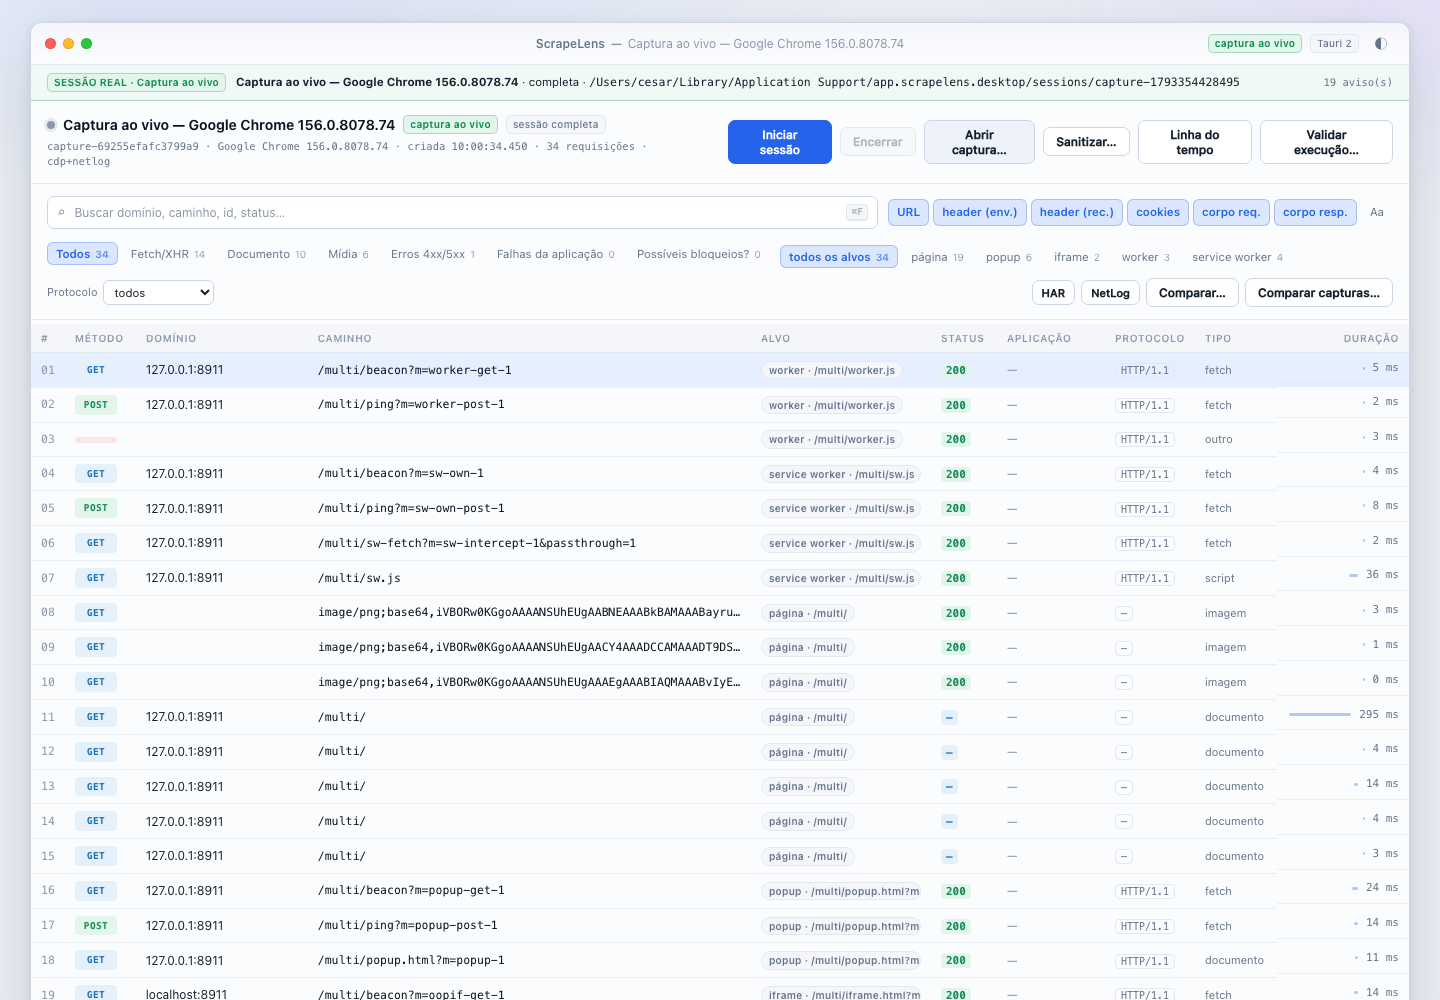
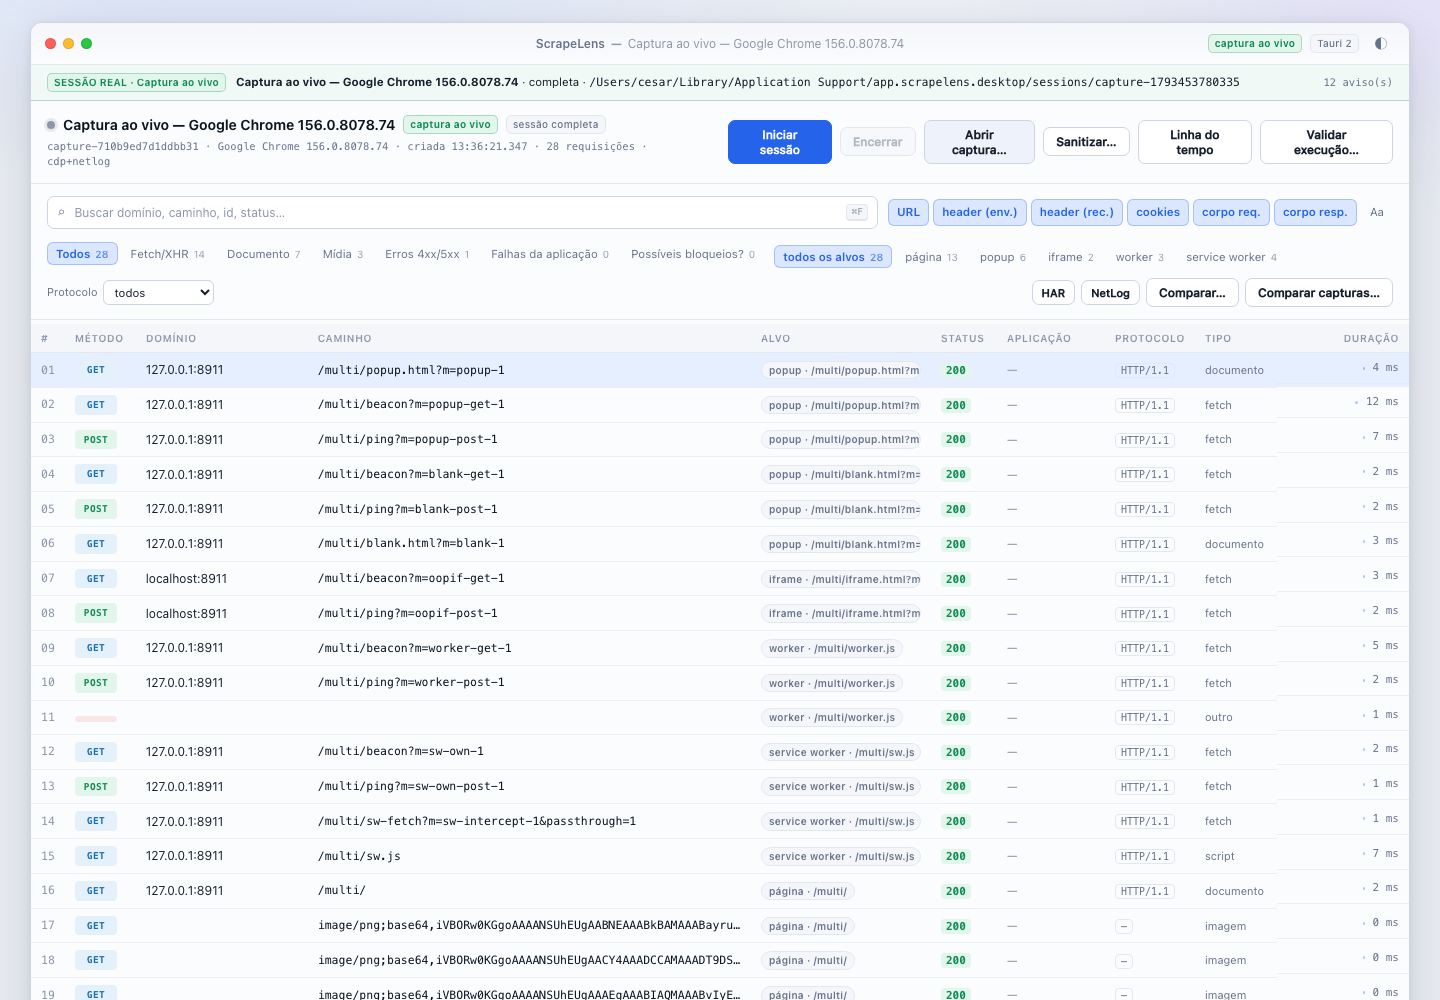
build(app): definitive bundle at HEAD 06c4269 (notes and setup_error)
Shows target.notes in the target panel and cdp.target_setup_error/timeout in Limits; /multi/ capture with “not confirmed” and screenshot 44.

diff --git a/app/src/App.tsx b/app/src/App.tsx
@@ -46,6 +46,7 @@ import {
   targetBadge,
   targetFilterCount,
   targetKindLabel,
+  targetSetupWarnings,
   type TargetFilter,
 } from "./target";
 
@@ -528,6 +529,8 @@ function CaptureLimits({
   const targets = showTargets ? captureTargets(requests) : [];
   const attachFails = attachFailureWarnings(session.warnings);
   const uniqueFails = [...new Map(attachFails.map((w) => [w.message, w])).values()];
+  const setupWarns = targetSetupWarnings(session.warnings);
+  const uniqueSetup = [...new Map(setupWarns.map((w) => [w.message, w])).values()];
   return (
     <ul>
       <li>Headers sem evento correspondente aparecem como “não verificada”, nunca como fato.</li>
@@ -560,6 +563,18 @@ function CaptureLimits({
           Falhas ao anexar alvo ({uniqueFails.length}):
           <ul className="limits-targets">
             {uniqueFails.map((w) => (
+              <li key={w.message}>
+                <span className="chip v-partial">{w.code}</span> {w.message}
+              </li>
+            ))}
+          </ul>
+        </li>
+      )}
+      {uniqueSetup.length > 0 && (
+        <li>
+          Avisos de configuração de alvo ({uniqueSetup.length}):
+          <ul className="limits-targets">
+            {uniqueSetup.map((w) => (
               <li key={w.message}>
                 <span className="chip v-partial">{w.code}</span> {w.message}
               </li>
@@ -849,6 +864,18 @@ function DetailView({
                     ? "não (fica só com o NetLog)"
                     : "não informado"}
               </dd>
+              {req.target.notes.length > 0 && (
+                <>
+                  <dt>Notas</dt>
+                  <dd>
+                    <ul className="target-notes">
+                      {req.target.notes.map((note) => (
+                        <li key={note}>{note}</li>
+                      ))}
+                    </ul>
+                  </dd>
+                </>
+              )}
             </dl>
           )}
           {req.links.length > 0 && (

diff --git a/app/src/target.ts b/app/src/target.ts
@@ -41,7 +41,11 @@ export function sessionShowsTargets(
   requests: RequestRecord[],
   warnings: { code: string }[],
 ): boolean {
-  if (warnings.some((w) => /target_attach|target_unknown|service_worker/.test(w.code))) {
+  if (
+    warnings.some((w) =>
+      /target_attach|target_unknown|target_setup|service_worker/.test(w.code),
+    )
+  ) {
     return true;
   }
   return requests.some((r) => r.target || r.netlogOnlyUnknownTarget || r.links.length > 0);
@@ -153,6 +157,15 @@ export function attachFailureWarnings(
       w.code === "cdp.target_attach_failed" ||
       w.code === "capture.target_attach" ||
       w.code.includes("target_attach"),
+  );
+}
+
+/** Timeout e erro de configuração CDP do alvo — mesmo bloco em Limites. */
+export function targetSetupWarnings(
+  warnings: { code: string; message: string }[],
+): { code: string; message: string }[] {
+  return warnings.filter(
+    (w) => w.code === "cdp.target_setup_timeout" || w.code === "cdp.target_setup_error",
   );
 }
 

diff --git a/app/src/v1/adapter.ts b/app/src/v1/adapter.ts
@@ -47,6 +47,7 @@ function mapTarget(raw: TargetProvenance | undefined): TargetView | undefined {
   const kind = TARGET_KINDS.has((raw.kind ?? "other") as TargetKind)
     ? ((raw.kind ?? "other") as TargetKind)
     : "other";
+  const notes = raw.notes ?? [];
   // Proveniência vazia (serde default) não vira coluna confusa.
   if (
     !raw.targetId &&
@@ -54,7 +55,8 @@ function mapTarget(raw: TargetProvenance | undefined): TargetView | undefined {
     !raw.url &&
     !raw.openerId &&
     !raw.parentSessionId &&
-    raw.attached === undefined
+    raw.attached === undefined &&
+    notes.length === 0
   ) {
     return undefined;
   }
@@ -65,6 +67,7 @@ function mapTarget(raw: TargetProvenance | undefined): TargetView | undefined {
     openerId: raw.openerId,
     parentSessionId: raw.parentSessionId,
     attached: raw.attached,
+    notes,
   };
 }
 

diff --git a/app/src/styles.css b/app/src/styles.css
@@ -510,6 +510,12 @@ kbd {
 .target-panel h3 { margin: 0 0 8px; font-size: 12px; color: var(--fg-strong); }
 .target-panel h4 { margin: 10px 0 4px; font-size: 11px; color: var(--fg-strong); }
 .target-kv { margin: 0; }
+.target-notes {
+  margin: 0;
+  padding-left: 1.1em;
+  list-style: disc;
+}
+.target-notes li { margin: 0.15em 0; }
 .target-links .link-list {
   margin: 6px 0 0;
   padding: 0;

diff --git a/app/src/types.ts b/app/src/types.ts
@@ -136,6 +136,8 @@ export interface TargetView {
   openerId?: string;
   parentSessionId?: string;
   attached?: boolean;
+  /** Notas informativas do core (ex.: "alvo encerrado durante a configuração"). */
+  notes: string[];
 }
 
 /** Observação irmã (service worker): `linked` ou `ambiguous`. */

diff --git a/app/src/v1/types.ts b/app/src/v1/types.ts
@@ -194,6 +194,8 @@ export interface TargetProvenance {
   openerId?: string;
   parentSessionId?: string;
   attached?: boolean;
+  /** Notas informativas (ex.: alvo encerrado durante a configuração). */
+  notes?: string[];
 }
 
 export interface RequestLink {

diff --git a/src-tauri/EMPACOTAMENTO.md b/src-tauri/EMPACOTAMENTO.md
@@ -9,12 +9,12 @@ mesmas condições.
 | Item | Valor |
 |---|---|
 | Repositório | `/Users/cesar/Projects/scrapelens` |
-| Commit do app no momento do build | `8cfe828` (HEAD de origem; `fix(capture): primeira sessão primária sem drop CDP no timeout`) |
+| Commit do app no momento do build | `66e97e3` (HEAD de origem; `feat(core): importa Capture.targetSetupError/Aborted e campos novos do timeout`) + UI `notes`/`cdp.target_setup_error` neste commit |
 | Commits de exportação incluídos | `eaf5471` (shell Tauri), `0a6e696` (UI), `0446f18`/`12457cd` (formatação), `3a3c676` (ajuste da prévia) |
 | Contrato da rodada | `4c97bc9` (`docs/07-exportacao-ui.md`); multi-alvo `docs/14-captura-multi-alvo.md` + UI `9a06463` |
-| Core | path `scrapelens-core`; inclui `df421cf`/`7892303` (alvo sem sessionId, `cdp.target_setup_timeout`, link SW ambíguo) |
-| Data do build | 2026-10-30 ~06:38 (UTC−03) |
-| Working tree | limpo no build em `8cfe828`; prints 42/44/45/47 atualizados após captura ao vivo |
+| Core | path `scrapelens-core`; inclui `715cdea`/`66e97e3` (SW “não confirmada”, `target.notes`, `cdp.target_setup_error`) |
+| Data do build | 2026-10-31 ~10:35 (UTC−03) |
+| Working tree | base `66e97e3` + painel de notas do alvo e avisos de setup em Limites; print 44 refeito |
 
 Não há sidecar, processo auxiliar nem runtime Node/Python no produto.
 
@@ -26,7 +26,7 @@ cd app && npm install                     # uma vez
 cd ../app && npx tsc --noEmit             # typecheck do frontend — sem saída
 cd ../app && npm run build                # bundle Vite — 516 kB (gzip 102 kB)
 cd ../core && cargo test                  # 55 passam, 1 ignorado
-cd ../src-tauri && cargo test             # 49 passam, 8 ignorados; 0 falhas
+cd ../src-tauri && cargo test             # 52 passam, 8 ignorados; 0 falhas
 cd ../src-tauri && cargo clippy --all-targets
 cd .. && ./app/node_modules/.bin/tauri build --bundles app
 
@@ -46,15 +46,15 @@ Ferramentas usadas: rustc 1.98.1, Node 26.8.1, macOS 26.5.2 (arm64).
 | Bundle | `src-tauri/target/release/bundle/macos/ScrapeLens.app` |
 | Executável | `ScrapeLens.app/Contents/MacOS/scrapelens` |
 | Arquitetura | `Mach-O 64-bit executable arm64`, thin (sem universal binary) |
-| Tamanho do bundle | 16.856 KiB (~16,5 MiB, `du -sk`) |
-| Tamanho do executável | 16.502.896 bytes |
[1 lines of base64/hex data omitted]
+| Tamanho do bundle | 16.932 KiB (~16,5 MiB, `du -sk`) |
+| Tamanho do executável | 16.582.144 bytes |
[1 lines of base64/hex data omitted]
 | Identificador | `app.scrapelens.desktop` |
 | Assinatura | ad-hoc (`flags=0x2(adhoc)`, `TeamIdentifier=not set`) |
 | `codesign --verify --deep --strict` | exit 0 (valid on disk, satisfaz o Designated Requirement) |
 | `spctl -a` | rejeitado — esperado: sem Developer ID e sem notarização |
 
-Rodada 10 final (HEAD de origem 8cfe828, 2026-10-30; Captura 1716d39–8cfe828 + Core df421cf/7892303; SW sem cópias na lista, sw-intercept ligado como ambígua, Limites sem “não anexou” falso; sessão antiga sem sessionId sem coluna Alvo; prints 42/44/47; hash anterior `77cf7355…`). Antes: rodada 10 (HEAD de origem 881fa0d, 2026-10-30; bundle com captura multi-alvo d60c1ae+, UI Alvo `9a06463`, aceite das Testes; captura ao vivo `/multi/` pelo `.app` com coluna Alvo e filtro de alvos; evidência `evidence/busca-corpos/46-multi-alvo-bundle.png`; hash anterior `d1136cbb…`). Antes: rodada 9, onda B, 3ª vez (HEAD de origem 7410fa4, 2026-10-29; bundle com `plan.parameters` isento só com plano verificado — versão atual, hash e alvo conferidos; correção só de core, traces e tela sem mudança; hash anterior `a4fe000a…`). Antes: rodada 9, onda B, 2ª vez (HEAD de origem 39410bf, 2026-10-29; bundle recompilado com a isenção de `parameters` restrita ao par (name, part) do plano — correção só de core, traces e tela sem mudança; hash anterior `860c2008…`). Antes: rodada 9, onda B (HEAD de origem 31bcaa9, 2026-10-29; plan.version 2 no trace, traces ok/403/incompleta regenerados contra o detran-sim e validação sem avisos espúrios na trace fiel; inclui o cleanup_on_start de 4a81cb0 e o plan.parameters de d83d620; hash anterior `bdce5796…`). Antes: rodada 9, 3ª vez (HEAD de origem a37cd60, 2026-10-29; temporária do trace com guardar/descartar, limite de 64 MiB, vereditos novos do validate com plan.hash do core; hash anterior `0b49ba0c…`). Antes: rodada 9, 2ª vez (HEAD de origem 2a5c533, 2026-10-29; validate com adaptador e classe "parâmetro do usuário"; hash anterior `48e1ab6d…`). Antes: rodada 9 (HEAD de origem 744df02, 2026-10-29; linha do tempo, "Validar execução…" com import-trace em pasta nova e validate; hash anterior `bda06a2d…`). Antes: build final que encerra a rodada 8 (HEAD de origem dc14ac3, 2026-10-29; estrito como padrão nas partes do adaptador; opção avançada "partes tolerantes" (`lenient_parts`) no script de priming, desligada por padrão; hash anterior `0eb5632a…`). Antes: build final da rodada 8, 2ª vez (HEAD de origem c07b514, 2026-10-29; inclui b4511fb e c07b514 da Captura; hash anterior `bee5f6d6…`). Antes: build final da rodada 8 (HEAD de origem 5d2c6e6, 2026-10-29; inclui 391db16, 5d2c6e6 da Captura, 3ba9486 do Core e o corte de partes da visão do adaptador; hash anterior `53009655…`). Antes: rebuild final da rodada 8 (HEAD de origem b0ce0f0, 2026-10-29; inclui limites da gramática da Captura, core c61d407 e o limite por campo da visão do adaptador; hash anterior `9aec2199…`). Antes: rebuild da rodada 8 (HEAD de origem aab8559, 2026-10-29; adaptador `natural-ajax` por dependência de path em origins/chain/compare/priming, visão estruturada e aba "Script de priming"; hash anterior `6e301e70…`). Antes: rebuild final (HEAD de origem 4b16b0e, 2026-10-29; inclui cf015b2 initiator do CDP e 6a85676 detectores do priming; hash anterior `1a097cd0…`). Antes: rebuild 7e (leitura de `assess-rules.json` só como arquivo regular sem symlink, até 256 KiB, erro de parse sem eco; hash anterior `56514c8b…`). Antes: rebuild 7d (avisos de `AssessRules::warnings()` devolvidos por `assess_session` e mostrados na lista e na aba Aplicação; hash anterior `0dba0476…`). Antes: rebuild 7c (filtros separados "Falhas da aplicação" = app-error e "Possíveis bloqueios?" = blocked?, combináveis; hash anterior `aa066f1a…`). Antes: rebuild 7b-2 (`counts` do assess com `VerdictKind::count_key()`, chaves kebab-case iguais ao `verdictKind`; hash anterior `83d67718…`). Antes: rebuild do ajuste 7b (verdict `not-assessed` neutro; hash anterior `0f6d04bf…`). Antes: rebuild da onda 7b (comando `assess_session`, coluna/filtro/aba "Aplicação", veredito na cadeia e no compare; hash anterior `4f7ca2aa…`). Antes: rebuild com frames auxiliares e iniciador (hash anterior `1697321d…`). Antes: rebuild da onda 6b (controle HTML, contexto estático, páginas de contexto, avisos de HAR sem cookies, compare por rodadas com opções, sanitização de negócio; hash anterior `f777988f…`). Antes: rebuild da dica de reordenação ligada a `SessionComparison.reordered` (hash anterior `21824159…`). Antes: rebuild do ajuste de layout do compare (chips quebram linha; dica de reordenação opcional); hash anterior `ac7213b2…`. Antes: rebuild com os rótulos do core (possível origem) e fixtures regeneradas; hash anterior `31ec27c3…`. Antes: rebuild das correções da revisão da rodada 5 (possível origem, confiança por passo, comparação paginada, caminhos canônicos, partsCounts; hash anterior `c1783a57…`). Antes: rebuild da onda 5b (aba Origem, cadeia de priming, comparação A × B, exportação com origens anotadas; hash anterior `2f08150d…`). Antes: rebuild do acabamento da rodada 4 (legenda de realce só quando há tracejado, nota discreta para `chrome-decoded`, aviso para `charset:*`/`lossy-postData`); hash anterior `0e2754f4…`. Antes: rebuild com busca preguiçosa do core (LazySession + search_lazy), realce sólido/tracejado e texto da fixture sintética; hash anterior `f9c0acec…`. Antes: rebuild das correções da revisão 4b (rótulos de origem, realce pelo intervalo do core, cache do bundle de busca, recusa de symlink em anexos, `transformed`; hash anterior `56ee754b…`). Antes: rebuild da onda 4b (busca no payload e painel de corpos: commands `search_session` e `read_body`, UI; 28+2 ignorados em src-tauri, 16/16 em tests/exportacao, `npm run test:adapter` ok; evidência em `evidence/busca-corpos/`). Hash anterior `9c04b98b…` substituído. Histórico: rebuild de 0d4dbab (`fix(app)`: adapter tolera campos omitidos que o core aceita via serde default; teste `npm run test:adapter` com a fixture mínima; 15+1 ignorado Tauri, 16/16 regressões tests/exportacao). Hash anterior `5934556c…` (16015a1) substituído. Antes: rebuild com validação de todos os ancestrais do destino (F1/F2): o hash acima é deste build. O SHA-256 é do executável **após** o re-sign ad-hoc. Um `tauri build` limpo
+Rodada 10 definitiva (HEAD de origem 66e97e3, 2026-10-31; UI `target.notes` + `cdp.target_setup_error`/`timeout` em Limites; captura `/multi/` com “não confirmada” no sw-intercept e Limites sem aviso de setup; print 44; hash anterior `02e6ef30…`). Antes: rodada 10 final (HEAD de origem 8cfe828, 2026-10-30; Captura 1716d39–8cfe828 + Core df421cf/7892303; SW sem cópias na lista, sw-intercept ligado como ambígua, Limites sem “não anexou” falso; sessão antiga sem sessionId sem coluna Alvo; prints 42/44/47; hash anterior `77cf7355…`). Antes: rodada 10 (HEAD de origem 881fa0d, 2026-10-30; bundle com captura multi-alvo d60c1ae+, UI Alvo `9a06463`, aceite das Testes; captura ao vivo `/multi/` pelo `.app` com coluna Alvo e filtro de alvos; evidência `evidence/busca-corpos/46-multi-alvo-bundle.png`; hash anterior `d1136cbb…`). Antes: rodada 9, onda B, 3ª vez (HEAD de origem 7410fa4, 2026-10-29; bundle com `plan.parameters` isento só com plano verificado — versão atual, hash e alvo conferidos; correção só de core, traces e tela sem mudança; hash anterior `a4fe000a…`). Antes: rodada 9, onda B, 2ª vez (HEAD de origem 39410bf, 2026-10-29; bundle recompilado com a isenção de `parameters` restrita ao par (name, part) do plano — correção só de core, traces e tela sem mudança; hash anterior `860c2008…`). Antes: rodada 9, onda B (HEAD de origem 31bcaa9, 2026-10-29; plan.version 2 no trace, traces ok/403/incompleta regenerados contra o detran-sim e validação sem avisos espúrios na trace fiel; inclui o cleanup_on_start de 4a81cb0 e o plan.parameters de d83d620; hash anterior `bdce5796…`). Antes: rodada 9, 3ª vez (HEAD de origem a37cd60, 2026-10-29; temporária do trace com guardar/descartar, limite de 64 MiB, vereditos novos do validate com plan.hash do core; hash anterior `0b49ba0c…`). Antes: rodada 9, 2ª vez (HEAD de origem 2a5c533, 2026-10-29; validate com adaptador e classe "parâmetro do usuário"; hash anterior `48e1ab6d…`). Antes: rodada 9 (HEAD de origem 744df02, 2026-10-29; linha do tempo, "Validar execução…" com import-trace em pasta nova e validate; hash anterior `bda06a2d…`). Antes: build final que encerra a rodada 8 (HEAD de origem dc14ac3, 2026-10-29; estrito como padrão nas partes do adaptador; opção avançada "partes tolerantes" (`lenient_parts`) no script de priming, desligada por padrão; hash anterior `0eb5632a…`). Antes: build final da rodada 8, 2ª vez (HEAD de origem c07b514, 2026-10-29; inclui b4511fb e c07b514 da Captura; hash anterior `bee5f6d6…`). Antes: build final da rodada 8 (HEAD de origem 5d2c6e6, 2026-10-29; inclui 391db16, 5d2c6e6 da Captura, 3ba9486 do Core e o corte de partes da visão do adaptador; hash anterior `53009655…`). Antes: rebuild final da rodada 8 (HEAD de origem b0ce0f0, 2026-10-29; inclui limites da gramática da Captura, core c61d407 e o limite por campo da visão do adaptador; hash anterior `9aec2199…`). Antes: rebuild da rodada 8 (HEAD de origem aab8559, 2026-10-29; adaptador `natural-ajax` por dependência de path em origins/chain/compare/priming, visão estruturada e aba "Script de priming"; hash anterior `6e301e70…`). Antes: rebuild final (HEAD de origem 4b16b0e, 2026-10-29; inclui cf015b2 initiator do CDP e 6a85676 detectores do priming; hash anterior `1a097cd0…`). Antes: rebuild 7e (leitura de `assess-rules.json` só como arquivo regular sem symlink, até 256 KiB, erro de parse sem eco; hash anterior `56514c8b…`). Antes: rebuild 7d (avisos de `AssessRules::warnings()` devolvidos por `assess_session` e mostrados na lista e na aba Aplicação; hash anterior `0dba0476…`). Antes: rebuild 7c (filtros separados "Falhas da aplicação" = app-error e "Possíveis bloqueios?" = blocked?, combináveis; hash anterior `aa066f1a…`). Antes: rebuild 7b-2 (`counts` do assess com `VerdictKind::count_key()`, chaves kebab-case iguais ao `verdictKind`; hash anterior `83d67718…`). Antes: rebuild do ajuste 7b (verdict `not-assessed` neutro; hash anterior `0f6d04bf…`). Antes: rebuild da onda 7b (comando `assess_session`, coluna/filtro/aba "Aplicação", veredito na cadeia e no compare; hash anterior `4f7ca2aa…`). Antes: rebuild com frames auxiliares e iniciador (hash anterior `1697321d…`). Antes: rebuild da onda 6b (controle HTML, contexto estático, páginas de contexto, avisos de HAR sem cookies, compare por rodadas com opções, sanitização de negócio; hash anterior `f777988f…`). Antes: rebuild da dica de reordenação ligada a `SessionComparison.reordered` (hash anterior `21824159…`). Antes: rebuild do ajuste de layout do compare (chips quebram linha; dica de reordenação opcional); hash anterior `ac7213b2…`. Antes: rebuild com os rótulos do core (possível origem) e fixtures regeneradas; hash anterior `31ec27c3…`. Antes: rebuild das correções da revisão da rodada 5 (possível origem, confiança por passo, comparação paginada, caminhos canônicos, partsCounts; hash anterior `c1783a57…`). Antes: rebuild da onda 5b (aba Origem, cadeia de priming, comparação A × B, exportação com origens anotadas; hash anterior `2f08150d…`). Antes: rebuild do acabamento da rodada 4 (legenda de realce só quando há tracejado, nota discreta para `chrome-decoded`, aviso para `charset:*`/`lossy-postData`); hash anterior `0e2754f4…`. Antes: rebuild com busca preguiçosa do core (LazySession + search_lazy), realce sólido/tracejado e texto da fixture sintética; hash anterior `f9c0acec…`. Antes: rebuild das correções da revisão 4b (rótulos de origem, realce pelo intervalo do core, cache do bundle de busca, recusa de symlink em anexos, `transformed`; hash anterior `56ee754b…`). Antes: rebuild da onda 4b (busca no payload e painel de corpos: commands `search_session` e `read_body`, UI; 28+2 ignorados em src-tauri, 16/16 em tests/exportacao, `npm run test:adapter` ok; evidência em `evidence/busca-corpos/`). Hash anterior `9c04b98b…` substituído. Histórico: rebuild de 0d4dbab (`fix(app)`: adapter tolera campos omitidos que o core aceita via serde default; teste `npm run test:adapter` com a fixture mínima; 15+1 ignorado Tauri, 16/16 regressões tests/exportacao). Hash anterior `5934556c…` (16015a1) substituído. Antes: rebuild com validação de todos os ancestrais do destino (F1/F2): o hash acima é deste build. O SHA-256 é do executável **após** o re-sign ad-hoc. Um `tauri build` limpo
 produz um binário byte-diferente (o linker assina antes do bundle), por isso o
 hash identifica este artefato, não a saída de qualquer build. O build anterior
 desta mesma rodada, sem o ajuste `3a3c676`, tinha
